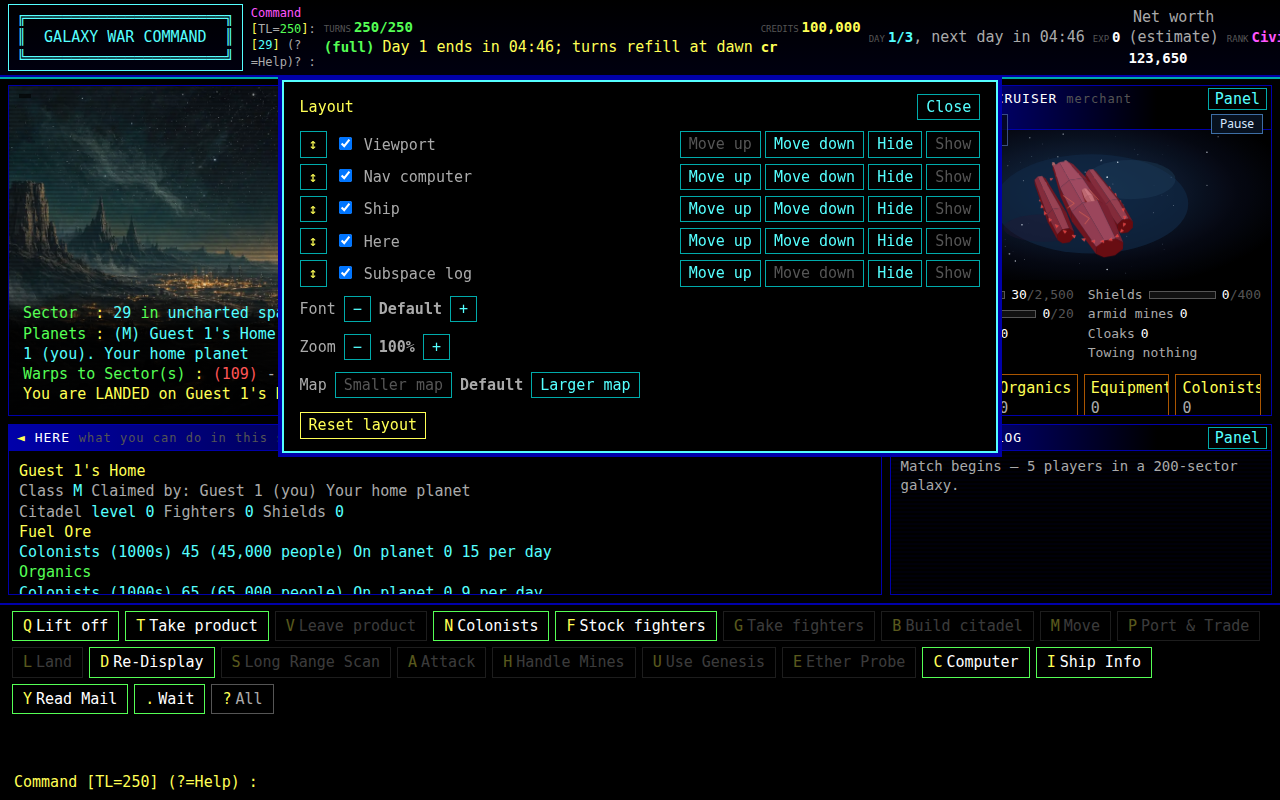
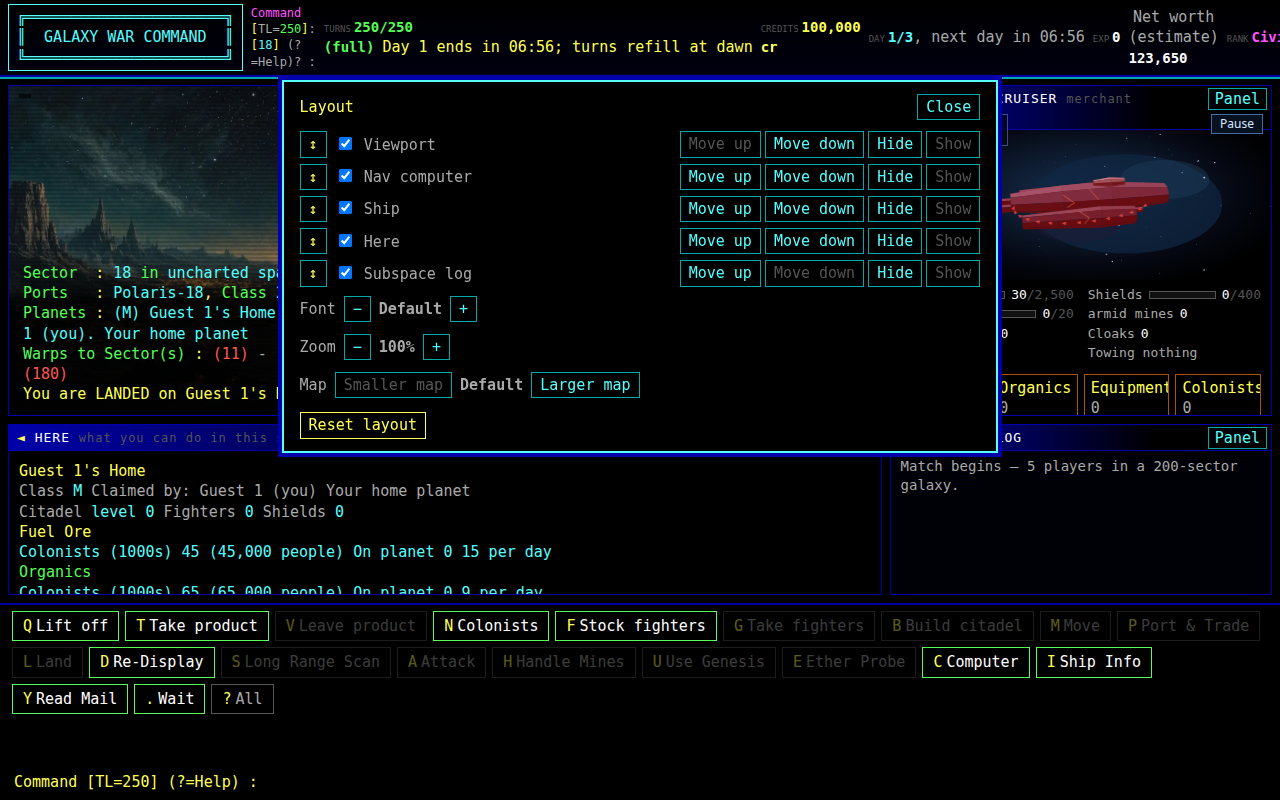
Print a copyable cockpit link per seat and trade on the scripted seat's own turn.
The created page uses the Cloudflare origin when the request is forwarded, and the scripted runner waits for YOUR MOVE so a day-1 buy and sell can land. The 3-day dry run is in PLAYTEST3_DRYRUN.md.

diff --git a/scripts/ai_cockpit/runner.py b/scripts/ai_cockpit/runner.py
@@ -688,7 +688,7 @@ def play(
                                 break
                             continue
                         idle = 0
-                    if chip != "YOUR MOVE":
+                    if not seat_may_act(chip):
                         # The server is not offering a turn. A click from here never lands.
                         _write_log(log_path, "waiting for the turn")
                         idle += 1
@@ -844,6 +844,15 @@ def _chip(page) -> str:
         return ""
 
 
+def seat_may_act(chip: str) -> bool:
+    """Clicks only on this seat's own turn.
+
+    A warp clicked while the chip says WAITING is queued and fires later,
+    which moves the ship before the trade click can land.
+    """
+    return (chip or "").strip() == "YOUR MOVE"
+
+
 def _wait_chip(page) -> None:
     """Wait until the seat can act, or the game has stopped asking."""
     # 20s missed the chip on the loaded Windows box. The seat stays attended
@@ -946,16 +955,58 @@ def _act(page, action: Action):
     if action.op == "type":
         _type(page, action)
         return None
-    target = _locator(page, action)
     if _opens_manual(action):
+        target = _locator(page, action)
         with page.expect_popup(timeout=8_000) as popup:
             target.click(timeout=8_000)
         manual = popup.value
         manual.wait_for_load_state("domcontentloaded", timeout=15_000)
         return manual
+    if _click_visible(page, action):
+        return None
+    target = _locator(page, action)
     target.click(timeout=8_000)
     page.wait_for_timeout(300)
     return None
+
+
+_CLICK_LABEL = r"""
+(label) => {
+  const want = String(label || "").replace(/\s+/g, " ").trim().toLowerCase();
+  if (!want) return false;
+  const nodes = document.querySelectorAll("#here button, #here a, button, a");
+  for (const el of nodes) {
+    if (el.disabled || el.classList.contains("dim")) continue;
+    const style = getComputedStyle(el);
+    if (style.display === "none" || style.visibility === "hidden") continue;
+    if (style.pointerEvents === "none") continue;
+    const text = (el.innerText || el.getAttribute("aria-label") || "").replace(/\s+/g, " ").trim().toLowerCase();
+    if (text !== want) continue;
+    const box = el.getBoundingClientRect();
+    if (box.width < 1 || box.height < 1) continue;
+    el.click();
+    return true;
+  }
+  return false;
+}
+"""
+
+
+def _click_visible(page, action: Action) -> bool:
+    """Click a visible control by its exact label, retrying while the table rebuilds."""
+    label = (action.label or "").strip()
+    if not label or action.selector:
+        return False
+    for _ in range(8):
+        try:
+            hit = bool(page.evaluate(_CLICK_LABEL, label))
+        except Exception:
+            hit = False
+        if hit:
+            page.wait_for_timeout(300)
+            return True
+        page.wait_for_timeout(250)
+    return False
 
 
 def _type(page, action: Action) -> None:

diff --git a/tests/test_selfhost_beta_v1.py b/tests/test_selfhost_beta_v1.py
@@ -291,6 +291,7 @@ def test_item2_seat_token_is_handed_over_once_and_only_hashed(make_lobby, tmp_pa
     r2 = c.post(f"/api/games/{g['id']}/resume", json={})
     token2 = r2.json()["claim_url"].split("token=")[1]
     assert token2 == token
+    assert lob.seat_links[g["id"]]["P1"] == token
     assert lob.store.seats(g["id"])[0]["token_hash"] == hashlib.sha256(token2.encode()).hexdigest()
     other = TestClient(c.app)
     _accept(other)
@@ -365,6 +366,52 @@ def test_item2_one_join_link_per_open_seat(make_lobby) -> None:
     assert friend.get(f"/join/{g['id']}/P2?k=wrong").status_code == 404
     r = friend.post(f"/api/games/{g['id']}/join", json={"seat": "P2", "k": k})
     assert r.status_code == 200 and r.json()["seat"] == "P2"
+
+
+def test_created_page_prints_one_copyable_cockpit_link_per_seat(make_lobby) -> None:
+    """Each human seat gets an https cockpit link when the request is forwarded."""
+    from tw2k.public.workers import seat_ids
+
+    c, lob = make_lobby(client=("127.0.0.1", 5000))
+    real = lob.start_game
+
+    async def start(gid, *, resume):
+        ok = await real(gid, resume=resume)
+        game = lob.store.game(gid) or {}
+        humans = int((game.get("settings") or {}).get("humans") or 1)
+        lob.seat_links[gid] = {seat: f"tok{seat}" for seat in seat_ids(humans)}
+        return ok
+
+    lob.start_game = start
+    _accept(c)
+    headers = {
+        "host": "127.0.0.1:8020",
+        "x-forwarded-host": "blue-pond.trycloudflare.com",
+        "x-forwarded-proto": "https",
+    }
+    r = c.post("/api/games", json={"name": "Links", "humans": 2}, headers=headers)
+    assert r.status_code == 200, r.text
+    body = r.json()
+    gid = body["id"]
+    links = body["cockpit_links"]
+    assert sorted(links) == ["P1", "P2"]
+    for seat in ("P1", "P2"):
+        assert links[seat] == (
+            f"https://blue-pond.trycloudflare.com/g/{gid}/bot?seat={seat}&token=tok{seat}&layout=redesign"
+        )
+    page = c.post("/new", data={"name": "Page", "humans": "2"}, headers=headers)
+    assert page.status_code == 200, page.text
+    assert "user-select:all" in page.text
+    assert page.text.count('data-testid="seat-link"') == 2
+    assert "layout=redesign" in page.text
+    assert "Send each player their cockpit link" in page.text
+    assert "Lobby invite P1" in page.text
+    opened = c.get(f"/g/{gid}/bot?seat=P1&token=tokP1", headers={"accept": "text/html"})
+    assert opened.status_code == 200
+    guest = lob.store.guest(hashlib.sha256(c.cookies.get("gwc_guest").encode()).hexdigest())
+    assert lob.store.guest_seat(gid, guest["id"]) == "P1"
+    c.get(f"/g/{gid}/bot?seat=P2&token=not-the-token", headers={"accept": "text/html"})
+    assert lob.store.seats(gid)[1]["guest_id"] is None
 
 
 def _lock_app() -> Starlette:

diff --git a/tests/test_ai_cockpit_player_v1.py b/tests/test_ai_cockpit_player_v1.py
@@ -308,6 +308,55 @@ def _view(screen: dict, *, manual: bool = True, labels: list[str] | None = None)
     return TurnView("screen", shown, b"", manual, "Getting started", 1, screen=screen)
 
 
+def test_the_scripted_seat_acts_only_on_its_own_turn() -> None:
+    sys.path.insert(0, str(REPO / "scripts"))
+    from ai_cockpit.runner import seat_may_act
+
+    assert seat_may_act("YOUR MOVE")
+    assert not seat_may_act("WAITING")
+    assert not seat_may_act("")
+    assert not seat_may_act("NO TURNS")
+
+
+def test_day_one_known_pair_buys_then_sells() -> None:
+    sys.path.insert(0, str(REPO / "scripts"))
+    from ai_cockpit.trader import ScriptedTrader
+
+    trader = ScriptedTrader(level="hard")
+    trader.ports[20] = {"Organics": {"bid": 30}}
+    trader.links[20] = {12: 3}
+    bought = trader.decide(_view({
+        "sector": "12", "day": "1", "turns": "240", "credits": "100,000 cr", "chip": "YOUR MOVE",
+        "maxDay": "3",
+        "holds": "Fuel Ore 0 Organics 0 Equipment 0",
+        "ship": "Holds 0/20",
+        "port": "Port Example Class 2 BSS",
+        "here": "Port Example Class 2 BSS",
+        "rows": [{
+            "cells": ["Organics", "Selling 500/2000", "500", "12", "0"],
+            "button": "BUY 20",
+        }],
+        "labels": ["BUY 20", "1:20 (3t)"],
+        "warps": ["1:20 (3t)"],
+    }))
+    assert bought.op == "click" and bought.label == "BUY 20"
+    sold = trader.decide(_view({
+        "sector": "20", "day": "1", "turns": "236", "credits": "99,760 cr", "chip": "YOUR MOVE",
+        "maxDay": "3",
+        "holds": "Fuel Ore 0 Organics 20 Equipment 0",
+        "ship": "Holds 20/20",
+        "port": "Port Buyer Class 2 SBS",
+        "here": "Port Buyer Class 2 SBS",
+        "rows": [{
+            "cells": ["Organics", "Buying, room 1000", "1000", "30", "20"],
+            "button": "SELL 20",
+        }],
+        "labels": ["SELL 20", "1:12 (3t)"],
+        "warps": ["1:12 (3t)"],
+    }))
+    assert sold.op == "click" and sold.label == "SELL 20"
+
+
 def test_the_scripted_trader_pairs_ports_haggles_and_avoids_danger() -> None:
     sys.path.insert(0, str(REPO / "scripts"))
     from ai_cockpit.trader import ScriptedTrader

diff --git a/src/tw2k/public/pages.py b/src/tw2k/public/pages.py
@@ -52,7 +52,7 @@ legend{color:#ffd27f;padding:0 6px}
 .err{background:#3a1212;border:1px solid #a33;border-radius:8px;padding:10px 14px}
 .note{color:#8aa0b8;font-size:14px}
 ul.points li{margin:6px 0}
-code.link{display:block;word-break:break-all;background:#070b14;border:1px solid #1f2d45;padding:8px;border-radius:6px}
+code.link{display:block;word-break:break-all;user-select:all;-webkit-user-select:all;cursor:text;background:#070b14;border:1px solid #1f2d45;padding:8px;border-radius:6px}
 footer{border-top:1px solid #142034;padding:14px 16px 20px;font-size:14px;color:#8aa0b8;text-align:center}
 @media (max-width:600px){table.games thead{display:none}table.games td{display:block;border:0;padding:4px 0}
   table.games tr{display:block;border-bottom:1px solid #1a2638;padding:8px 0}}
@@ -645,7 +645,8 @@ def created(brand: str, *, game: dict[str, Any], join_links: list[tuple[str, str
             f"{rows}"
         )
         links = "".join(
-            f"<p>Lobby invite {escape(seat)}<code class=\"link\">{escape(url)}</code></p>" for seat, url in join_links
+            f"<p>Lobby invite {escape(seat)}<code class=\"link\">{escape(url)}</code></p>"
+            for seat, url in join_links
         )
         invite_note = (
             "<p>A lobby invite asks the player to confirm, then opens the same cockpit. "

diff --git a/src/tw2k/public/lobby.py b/src/tw2k/public/lobby.py
@@ -277,6 +277,7 @@ class Lobby:
                 self._launch_cockpit(gid)
                 return True
             log.warning("start game=%s: worker did not come up", gid)
+            self.seat_links.pop(gid, None)
             self._drop_cockpit(gid, forget=True)
             await self.workers.stop(gid, lobby_secret=self.secrets.lobby_secret(gid),
                                     spectator_token=self.secrets.spectator_token(gid), graceful=False)
@@ -521,6 +522,7 @@ class Lobby:
         async with self.lock(gid):
             self._drop_ai(gid)
             self._drop_cockpit(gid)
+            self.seat_links.pop(gid, None)
             await self.workers.stop(gid, lobby_secret=self.secrets.lobby_secret(gid),
                                     spectator_token=self.secrets.spectator_token(gid), graceful=graceful)
             self.store.set_game(gid, status=status, pid=None)
@@ -898,6 +900,7 @@ class Lobby:
             if not ok:
                 self._drop_ai(gid)
                 self._drop_cockpit(gid, forget=True)
+                self.seat_links.pop(gid, None)
         if not ok:
             return self._api_or(api, 503, "The game could not start. Please try again later.", request)
         g = self.store.game(gid)

diff --git a/docs/playtests/PLAYTEST3_DRYRUN.md b/docs/playtests/PLAYTEST3_DRYRUN.md
@@ -1,55 +1,76 @@
 # Playtest 3 dry run
 
-NOTE 153. Checklist: `docs/playtests/PLAYTEST3_READINESS.md` on `track-g-note136` (that file is not on this tip). This run followed that list on `feature/grokbot-player` at `ea20cf86`, with the two routing fixes below.
+NOTE 155. Checklist: `docs/playtests/PLAYTEST3_READINESS.md` on `track-g-note136` (that file is not on this tip). This run was recorded on `feature/grokbot-player` at `7b831056`, branch `track-g-note155`. The commit is replayed onto `fdd4f11`.
 
-Game `7b31c521`, "Playtest 3 dry run". Lobby `127.0.0.1:8020`, worker `8021`. State `/tmp/playtest3-dryrun2` (not in the repo). `V311_PROFILE=v311` came from the form's v3.11 rule set. Shots are in `playtest3-dryrun-v1/`.
+Game `176a6837`, "Playtest 3 dry run". Lobby `127.0.0.1:8020`, worker `8023`. State `/tmp/playtest3-dryrun10` (not in the repo). `V311_PROFILE=v311` came from the form's v3.11 rule set. Shots are in `playtest3-dryrun-v1/`.
 
 ## Ports
 
-The lobby refuses 8031–8098, so the open pockets inside that block cannot host it. 8099–8119 are the standing lobby. This run used 8020 for the lobby and 8021 for the game. Both are outside 8031–8037, 8041, 8042, 8045–8049, 8055–8119, and 8099–8119.
+The lobby refuses 8031–8098, so the open pockets inside that block cannot host it. 8099–8119 are the standing lobby. This run used 8020 for the lobby and 8023 for the game. Both are outside 8031–8037, 8041, 8042, 8045–8049, 8055–8119, and 8099–8119.
 
 ## Lineup
 
 The readiness list asks for a full-length 2-day game, one scripted cockpit, one code bot, and one heuristic AI opponent. This note asks for 3 fast days, 2 human browser seats, and 2 AI cockpit seats. The dry run used that request:
 
 - Rule set v3.11, 100,000 credits, Original 250 turns, 200 sectors, 3 days
-- Game length fast, day length 300 seconds (a `5m` preset added for this lobby only)
+- Game length fast, day length 480 seconds (the `8m` preset on this lobby only)
 - 2 human seats, 1 code bot (Vega), 0 harness AI opponents, Ferrengi on
 - 2 scripted hard AI cockpit seats
 - Listed, hold the clock until the first player opens a seat
 
 `AI_COCKPIT_SEAT_MODE` stays `legacy` in the tree. The lobby process set it to `tw2002` before `run()`, which is what shows the cockpit checkbox. v3.11 does not turn that switch on by itself.
 
-## Fixes before the rerun
+## What changed for this pass
 
-Two small public-mode bugs stopped the first pass. The engine was not changed. Profile-off behavior is unchanged. The scripted-match digests were not at risk.
+The engine was left alone. `/bot` (the old page) was left alone. No profile-off guard moved. The scripted-match digests were not re-run; no engine file changed, so they stay at `24863a3d` for seed 250925 and `98a47c8a` for seed 4242.
 
-1. A browser on the worker's own `/bot` page, which is how the scripted cockpit seat opens, asks for `/g/<id>/static` and `/g/<id>/harness` because the page is rewritten with `TW2K_BASE_PATH`. The worker only served those routes without the prefix, so the script loaded and the screen stayed `day=- turns=-- sector=-`. `AcceptBasePath` strips that prefix on the worker. The public lock still sees the path after the strip, so `/control` stays closed.
-2. The in-game Manual link is rewritten to `/g/<id>/manual`. `/manual` was outside the open list, so the cockpit received `{"detail":"not available in this game"}`. `/manual` is now an open path. The player manual has no seat token.
+1. The created page prints one cockpit link per human seat. The link is `seat_link`: `{origin}/g/{id}/bot?seat=…&token=…&layout=redesign`. The origin is the Cloudflare share base when the request arrives on loopback with `X-Forwarded-Host` and `X-Forwarded-Proto: https`. The link is plain text in `code.link` with `user-select: all`, so it can be copied. Opening that link claims the seat for the guest, which is how the creator ends the game. A later resume in the same lobby process keeps the published human token, so the printed link still matches. The raw token stays out of sqlite; the lobby stores the sha256 only.
+2. The scripted seat acts only when the chip says `YOUR MOVE`. A click while the chip says `WAITING` was queued and fired on a later turn, so the buy and the sell missed day 1. The runner now waits out `WAITING` and clicks the visible trade button by its exact label. On a known one-hop pair the scripted trader's first two decisions are a buy and then a sell.
+3. The worker serves `/g/<id>/manual` and `/g/<id>/static` on its own port. The scripted seat opens the worker directly, and the rewritten page asks for those prefixed paths. `/control` stays closed after the prefix is stripped.
 
-After the fix the scripted seats parsed the screen and played. P3 log: `screen day=1 turns=250 credits=100,000 cr nw=123,650 chip=YOUR MOVE sector=189`, then lift off and warps. By day 3, P3 had sold cargo (`credits=102,280`) and P4 had bought and sold (`step 69 click BUY 32`).
+The earlier Guest 1 miss was the dry-run driver. It left the port after one hop and treated the previous result line as a new trade. This run waits until the result line itself says `buy` or `sell`. Both human seats bought on day 1.
+
+The second human fight needs both seats in Vega's sector before either one attacks. The first hit, taken while the other seat is still buying fighters, lets Vega leave before the second seat presses A. This run held the second seat until both had fighters, then seat 1 struck and seat 2 struck on the following turn, while the scheduler was still waiting on seat 2.
 
 ## Checklist
 
 | Item | Result | Evidence |
 | --- | --- | --- |
 | Disclaimer, "I understand" | Pass | `playtest3-dryrun-v1/01-disclaimer.png` |
-| New-game lineup above | Pass | `02b-form-filled.png`, created page "Day length: 300s" |
+| New-game lineup above | Pass | `02b-form-filled.png`. Created page: "Day length: 480s". |
 | Created page: scripted cockpit running | Pass | "AI cockpit seat P3: scripted hard, running" and the same for P4. `03-created.png` |
-| Created page: https token cockpit links with `layout=redesign` | Fail | The page prints lobby join links, `http://127.0.0.1:8020/join/7b31c521/P1?k=…` and P2. Opening one lands on `/g/7b31c521/bot?seat=P1&mode=cu`, which is the redesign cockpit. The link itself has no `token` and no `layout=redesign`. That shape is the unmerged note 136 created page. |
-| Both seats land at home, 100,000 cr, 250/250, YOUR MOVE, day line | Pass | P1 sector 29, "You are LANDED on Guest 1's Home", `TURNS250/250 (full)`, "Day 1 ends in 04:56", YOUR MOVE, 100,000 cr. `04-cockpit-p1.png`. P2 sector 147, Guest 2's Home, same pocket, first paint was WAITING until P1 moved. `04-cockpit-p2.png`. The turn line and the day line sit in the header stat, and both were readable at 1280. |
+| Created page: per-seat cockpit link, token, `layout=redesign`, copyable, https when sharing is on | Pass | The scratch lobby has no tunnel, so the page printed `http://127.0.0.1:8020/g/176a6837/bot?seat=P1&token=…&layout=redesign` and the same for P2, under "Send each player their cockpit link." The link is a text block. The same builder, given `X-Forwarded-Host: blue-pond.trycloudflare.com` and `X-Forwarded-Proto: https`, prints `https://blue-pond.trycloudflare.com/g/{id}/bot?seat=P1&token=…&layout=redesign`. `tests/test_selfhost_beta_v1.py::test_created_page_prints_one_copyable_cockpit_link_per_seat` checks that URL, `user-select:all`, and that opening P1's link claims P1. `03-created.png` |
+| Both seats land at home, 100,000 cr, 250/250, YOUR MOVE, day line | Pass | P1 sector 18, "You are LANDED on Guest 1's Home", `TURNS250/250 (full)`, "Day 1 ends in 07:58", YOUR MOVE, 100,000 cr. `04-cockpit-p1.png`. P2 sector 40, Guest 2's Home, same pocket; the first paint was WAITING until P1 moved. `04-cockpit-p2.png`. The turn line and the day line sit in the header stat, and both were readable at 1280. |
 | Q, lift off, "ok — lifted off." | Pass | Both seats: "ok — lifted off. Turns spent 1. Credits +0." `06-liftoff-P1.png`, `06-liftoff-P2.png` |
-| Trade at a BUY or SELL port | Pass on P2, fail on P1 | P2 at Beta-147 Class 5 (SBS) clicked BUY 20. The match log is `Guest 2 buy 20 fuel_ore @ 15cr = 300cr`. End credits 88,817 match 100,000 − 300 − 1,015 fighters − 9,868 tax. Holds at the end were 20/20. `07-trade-P2.png`. P1's first ports had nothing to sell into empty holds, and the driver moved on after one hop. Guest 1 has no trade event. End credits 89,087 match 100,000 − 1,015 − 9,898 tax. |
-| Warp one hop, clip, turn drop | Pass | P1 `1:29 (3t)`, clip `merchant_cruiser.gate.06`, "ok — warped 109 → 29. Turns spent 3." `08-warp-clip-P1.png`, `08-warp-P1.png`. P2 clip `merchant_cruiser.streak.01`, "ok — warped 147 → 15. Turns spent 3." |
+| Trade at a BUY or SELL port | Pass | P1 at sector 18: "ok — buy 20 organics @ 34 cr = 680 cr." Event: "Guest 1 buy 20 organics @ 34cr = 680cr". `07-trade-P1.png`. P2 at sector 40: "ok — buy 20 fuel ore @ 17 cr = 340 cr." Event: "Guest 2 buy 20 fuel_ore @ 17cr = 340cr". `07-trade-P2.png` |
+| Warp one hop, clip, turn drop | Pass | P1 `1:11 (3t)`, clip `merchant_cruiser.chase.10`, "ok — warped 18 → 11. Turns spent 3." `08-warp-clip-P1.png`. P2 `1:49 (3t)`, clip `merchant_cruiser.gate.06`, "ok — warped 40 → 49. Turns spent 3." `08-warp-clip-P2.png` |
 | StarDock, Class 9, Terra unclaimable | Pass | Both reached sector 1. "Sol-1 StarDock, Class 9 (STARDOCK)". "Terra (colonist source, cannot be claimed)." `09-stardock-P1.png` |
-| Buy fighters, "ok — bought … fighters" | Pass | Both: "ok — bought 5 fighters for 1,015 cr." `10-fighters-P1.png` |
-| Fight the code bot | Pass | Attack list: "Vega, a Merchant Cruiser, 430 fighters, 0 shields (code bot)". Both seats sent 10 fighters in sector 1. Log: "Combat in 1: Guest 1 sent 10 fighters, lost 10; Vega lost 0 shields and 10 fighters" and the same line for Guest 2. Fighters on the day-2 header are 25 (30 starting + 5 bought − 10 lost). `11-combat-P1.png` shows Vega in sector 1; the result line in that shot is still the fighter purchase because the driver matched the previous ok line. |
-| Manual is the v3.11 player manual, with the full-length paragraph | Pass for the manual, fail for that paragraph | Both seats opened Manual from the header. Title "Galaxy War Command", "These numbers are this game's settings", Profile row v3.11. `12-manual-P1.png`. The fast game's page does not include "Full-length games use a 24-hour day". That paragraph is added when the game is full-length. This run was a 300-second day. |
+| Buy fighters, "ok — bought … fighters" | Pass | Both: "ok — bought 5 fighters for 1,015 cr. Turns spent 0." `10-fighters-P1.png`, `10-fighters-P2.png` |
+| Fight the code bot | Pass | Both seats sent 10 fighters at Vega in sector 1. P1: "You lost 10 fighters and 0 shields, 25 fighters remain. Vega lost 10 fighters and 0 shields." P2: the same line, Vega then on 410 fighters. Events: "Combat in 1: Guest 1 sent 10 fighters, lost 10; Vega lost 0 shields and 10 fighters" and the same for Guest 2. `11-combat-P1.png`, `11-combat-P2.png` |
+| Manual is the v3.11 player manual | Pass | Both seats opened Manual from the header. Title "Galaxy War Command", "These numbers are this game's settings", Profile row v3.11. `12-manual-P1.png` |
+| Manual includes the full-length 24-hour paragraph | N/A | This was a fast game (480-second day). That paragraph is printed for a full-length game. The fast game's manual does not include it, and the manual renderer was left unchanged. |
 | Layout: larger font, then Reset layout | Pass | Both seats: computed `--cockpit-font` was `17px`, then `default` after Reset layout. `13-layout-P1.png`, `14-layout-reset-P1.png` |
-| Day 2, each seat acts | Pass | Header DAY 2/3. Subspace log "Day 2 dawns". P1 "ok — warped 1 → 42" clip `merchant_cruiser.headon.03`. P2 the same hop, clip `merchant_cruiser.chase.02`. `08-warp-P1-day2.png` |
-| Day 3, each seat acts | Pass | Header DAY 3/3. P1 "ok — warped 42 → 1. Turns spent 3, 1 came back." clip `merchant_cruiser.headon.07`. P2 the same hop, clip `merchant_cruiser.top.08`. `08-warp-P1-day3.png` |
-| Creator ends the game | Pass | `?` menu, End game for everyone, confirm. Header chip GAME OVER. Panel on P1: "GAME OVER - Ended by the game's creator. Decided by experience: 1st AI cockpit 2 10, 2nd AI cockpit 1 8, 3rd Vega 4, 4th Guest 2 3, 5th Guest 1 1. You finished 5th of 5." P2 shows the same ranking and "You finished 4th of 5." Match event: "Ended by the game's creator. AI cockpit 2 leads on experience (10)". `16-game-over-p1.png`, `16-game-over-p2.png` |
+| Day 2, each seat acts | Pass | "Day 2 dawns". P1 "ok — warped 1 → 7. Turns spent 3, 1 came back." clip `merchant_cruiser.side.09`. P2 "ok — warped 1 → 7. Turns spent 3." clip `merchant_cruiser.headon.03`. `08-warp-P1-day2.png`, `08-warp-P2-day2.png` |
+| Day 3, each seat acts | Pass | "Day 3 dawns". Header DAY 3/3. P1 "ok — warped 7 → 1. Turns spent 3." clip `merchant_cruiser.side.05`. P2 "ok — warped 7 → 1. Turns spent 3, 1 came back." clip `merchant_cruiser.top.08`. `08-warp-P1-day3.png` |
+| Scripted AI seats trade on day 1 | Pass | While the screen still said day 1, P3 clicked `step 10 BUY 20` and `step 13 SELL 20` (and a second pair at steps 16 and 19). P4 clicked `step 9 BUY 20` and `step 12 SELL 20` (and a second pair at steps 15 and 18). Events before dawn: "AI cockpit 1 buy 20 organics @ 29cr = 580cr" and "AI cockpit 1 sell 20 organics @ 62cr = 1240cr (+660cr profit)". The same buy and sell for AI cockpit 2. |
+| Creator ends the game | Pass | `?` menu, End game for everyone, confirm. Header chip GAME OVER. Panel on P1: "GAME OVER - Ended by the game's creator. Decided by experience: 1st AI cockpit 2 21, 2nd AI cockpit 1 20, 3rd Vega 11, 4th Guest 1 4, 5th Guest 2 4. You finished 4th of 5." Match event: "Ended by the game's creator. AI cockpit 2 leads on experience (21)". Scores P4 21, P3 20, Vega 11, Guest 1 4, Guest 2 4. `16-game-over-p1.png`, `16-game-over-p2.png` |
 
-## What this run changed in the tree
+## Shots
 
-`src/tw2k/public/worker.py` adds `AcceptBasePath` and puts `/manual` on the open list. `tests/test_selfhost_beta_v1.py` covers the prefixed manual and static routes, and checks that `/g/<id>/control/end` still answers only the lobby. No profile helper was added. No profile-off guard moved.
+![Created page, cockpit links](playtest3-dryrun-v1/03-created.png)
+
+![Landed, 100,000 credits](playtest3-dryrun-v1/04-cockpit-p1.png)
+
+![Guest 1 buys organics](playtest3-dryrun-v1/07-trade-P1.png)
+
+![Guest 2 buys fuel](playtest3-dryrun-v1/07-trade-P2.png)
+
+![StarDock](playtest3-dryrun-v1/09-stardock-P1.png)
+
+![Guest 1 fights Vega](playtest3-dryrun-v1/11-combat-P1.png)
+
+![Guest 2 fights Vega](playtest3-dryrun-v1/11-combat-P2.png)
+
+![Manual, profile v3.11](playtest3-dryrun-v1/12-manual-P1.png)
+
+![Game over](playtest3-dryrun-v1/16-game-over-p1.png)
